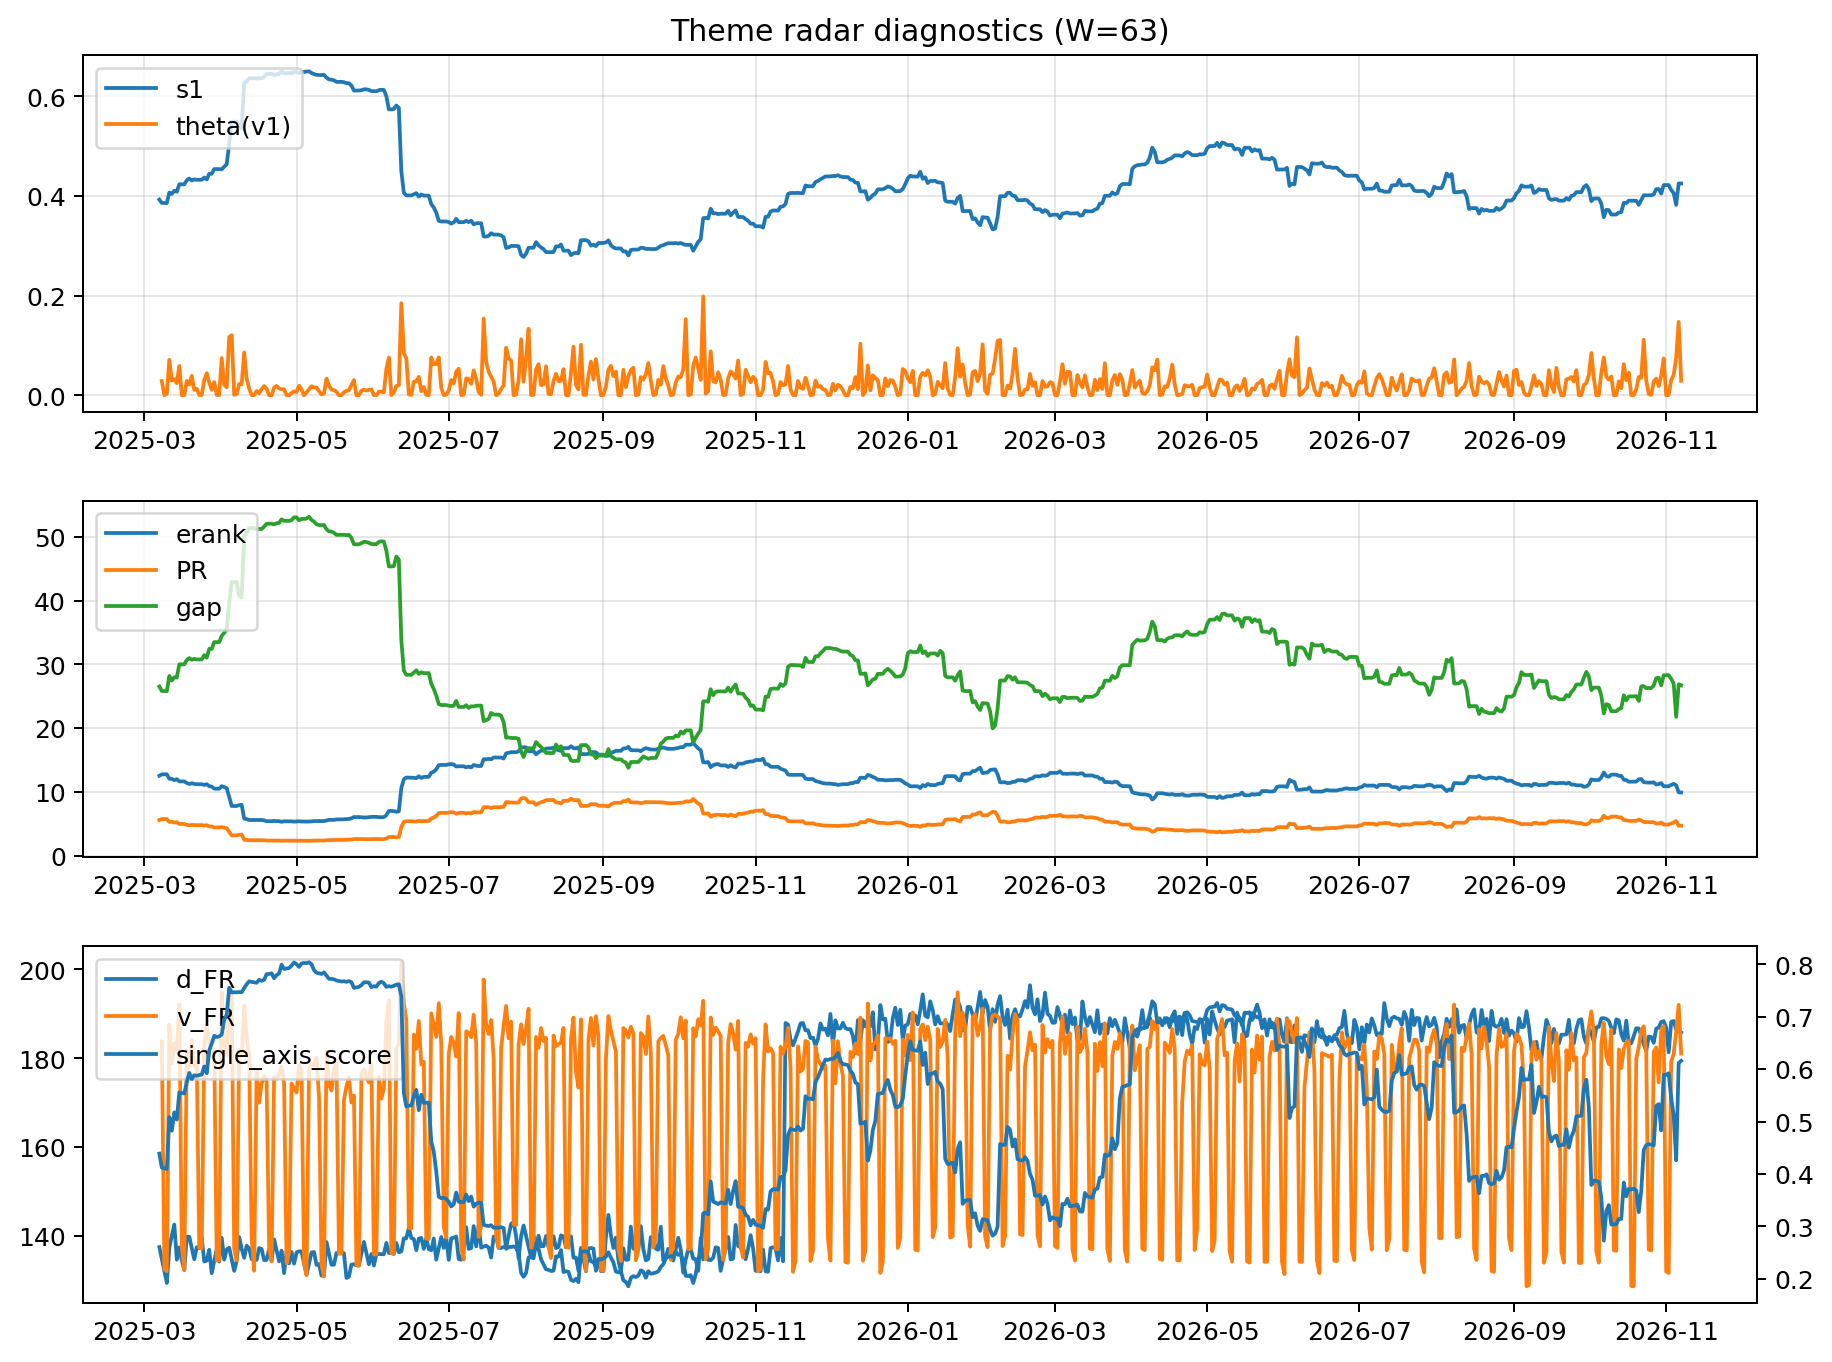
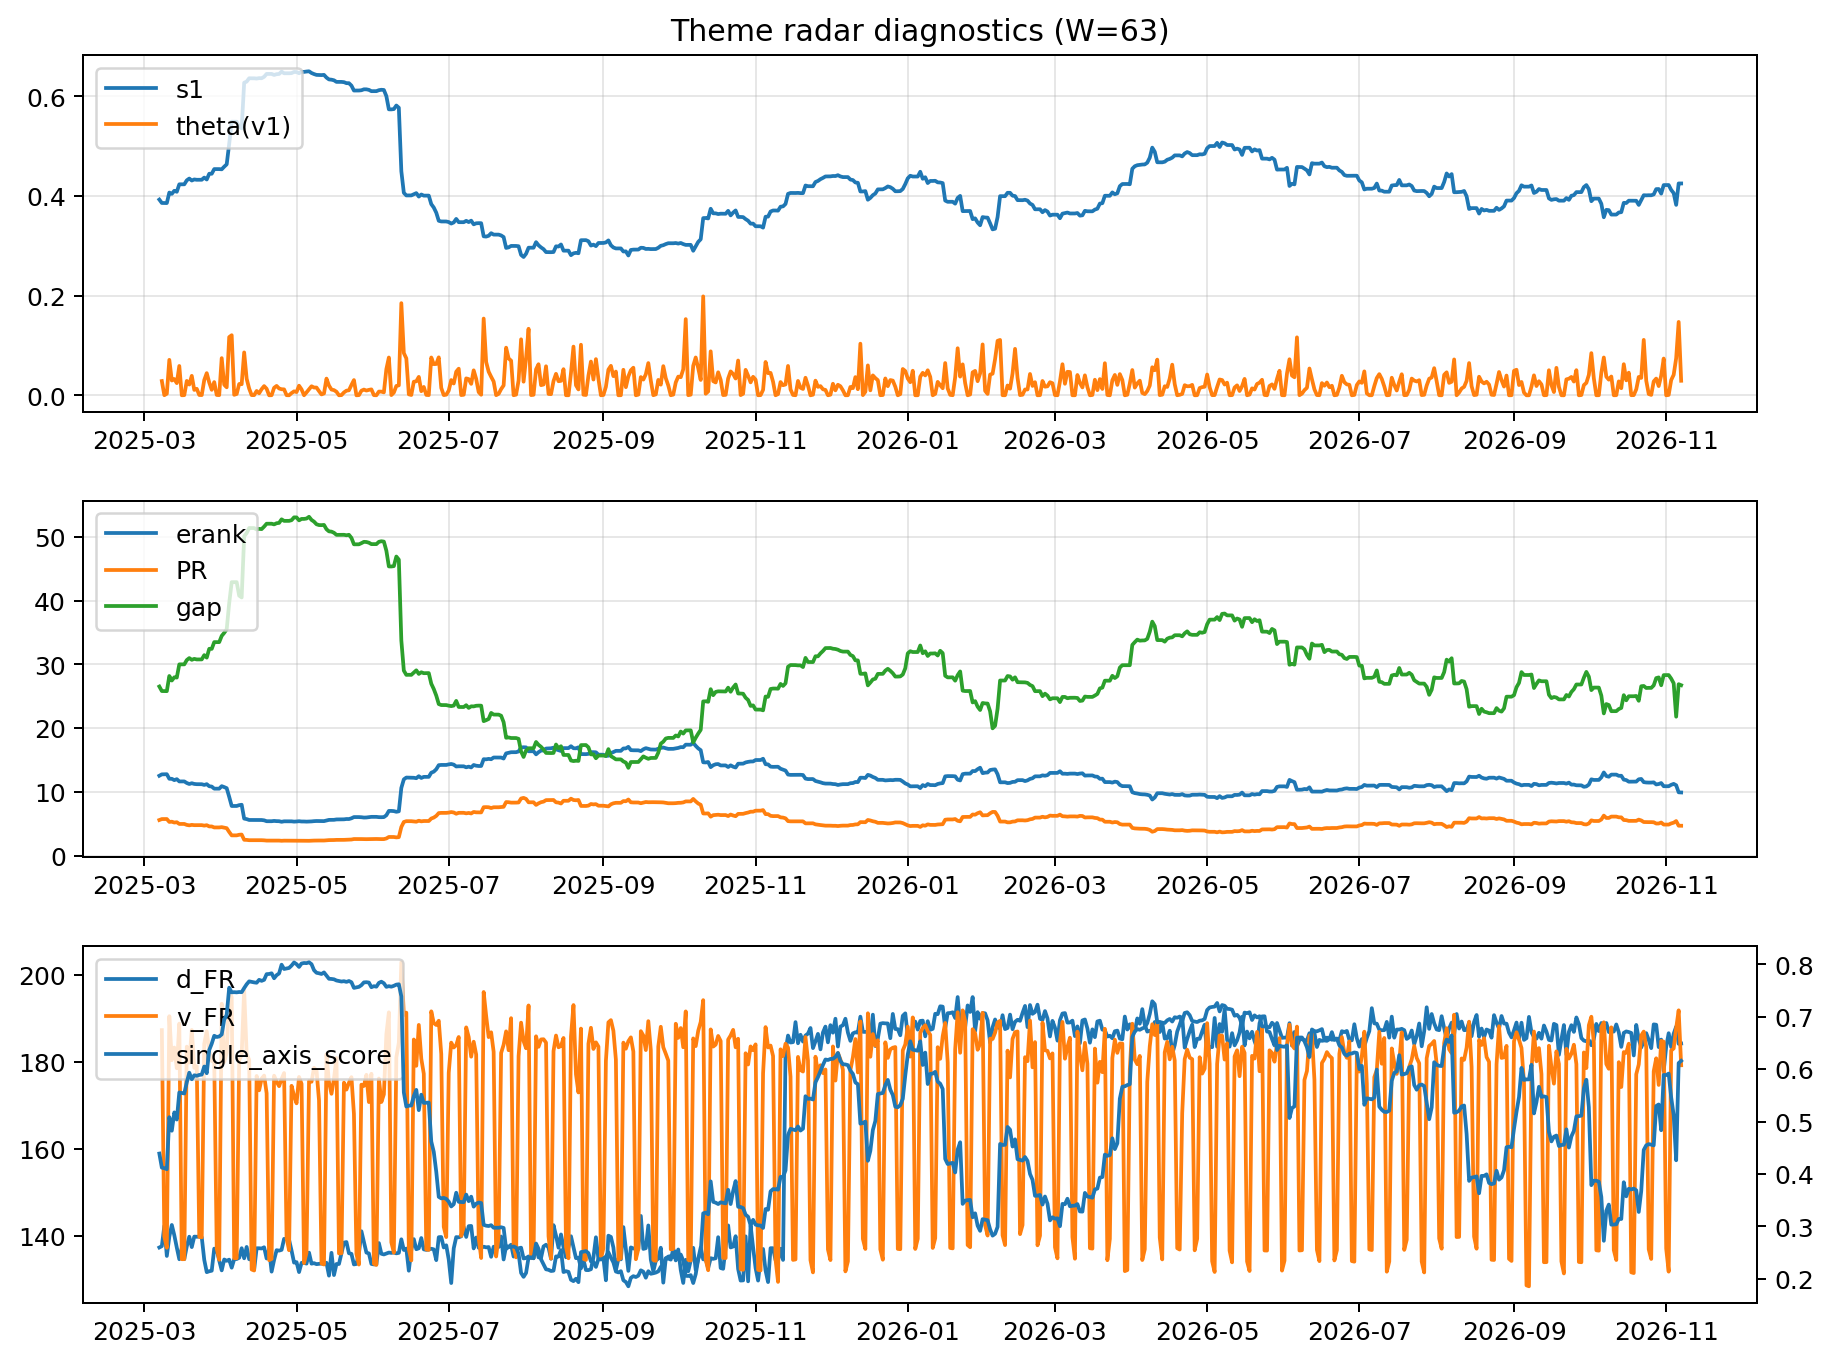
log: 2026-11-07 | sha256:04d435f51684cef080b8a446306857e31765f875eb99569a89519b077b0a6a6f

diff --git a/logs/2026-11-07.md b/logs/2026-11-07.md
@@ -3,43 +3,43 @@
 ![diagnostic W63](../assets/diagnostic/2026-11-07_W63.png)
 
 ## Leaders (v1) — W=63
-- **Nuclear_Uranium** (0.0804837827853006)
-- Semis (0.0781782614275114)
-- Genomics_Bio (0.0602821769241579)
+- **Nuclear_Uranium** (0.0804897110687736)
+- Semis (0.0781787931654107)
+- Genomics_Bio (0.0602873158768153)
 
 ## Challengers — W=63
-**v2:** Rates (0.0824233213517477), Metals (0.0750060332604043), Semis (0.0580552026621323)
-**v3:** Rates (0.081844792362851), MegaCap_AI (0.0774359554508987), Crypto (0.0770709887578667)
+**v2:** Rates (0.0819255506667261), Metals (0.0751550953329903), Semis (0.0581112963235019)
+**v3:** Rates (0.082493419232002), MegaCap_AI (0.0774869046521548), Crypto (0.0767876360787917)
 
 ## Migration (20D slope) — W=63
 **Top risers:**
-- axis_Semis: 0.0007828126306595
-- axis_Genomics_Bio: 0.0004636515420705
-- axis_MegaCap_AI: 0.0003241118712221
-- axis_Crypto: 0.0003145763524203
-- axis_Space: 0.0002349980166982
-- axis_Nuclear_Uranium: 0.0002193665850796
-- axis_Software_Cloud: 0.000190161594142
-- axis_Quantum: 0.0001729588623101
-- axis_Grid_Power: 0.0001685841696045
-- axis_Cyber: 0.0001575840217497
+- axis_Semis: 0.0007818752190151
+- axis_Genomics_Bio: 0.0004644861371284
+- axis_MegaCap_AI: 0.0003241398114878
+- axis_Crypto: 0.0003140696690415
+- axis_Space: 0.0002344580964001
+- axis_Nuclear_Uranium: 0.0002199334288623
+- axis_Software_Cloud: 0.0001892579668058
+- axis_Quantum: 0.0001724635855421
+- axis_Grid_Power: 0.0001668702611528
+- axis_Cyber: 0.0001572786497292
 
 **Top fallers:**
-- axis_Clean_Solar: -0.0001352547477661
-- axis_Sector_Materials: -0.0001380504383362
-- axis_Sector_Energy: -0.0001436320515402
-- axis_Commodities: -0.0001655837407919
-- axis_Clean_Broad: -0.0001707025454418
-- axis_Sector_RealEstate: -0.0002238181762732
-- axis_Metals: -0.0003143479009821
-- axis_USD: -0.0003719929723655
-- axis_Credit: -0.0004094118505349
-- axis_Rates: -0.0015178708430108
+- axis_Clean_Solar: -0.000134878861555
+- axis_Sector_Materials: -0.0001377608143622
+- axis_Sector_Energy: -0.0001431499933056
+- axis_Commodities: -0.0001646990718093
+- axis_Clean_Broad: -0.0001706608731923
+- axis_Sector_RealEstate: -0.0002234263023447
+- axis_Metals: -0.0003142641483498
+- axis_USD: -0.0003712498689206
+- axis_Credit: -0.0004092302077081
+- axis_Rates: -0.0015171368498257
 
 ## Risk line (W=63)
-- s1: 0.4249434251034019
-- theta_v1: 0.0291741995994553
-- v_FR: 181.0146507944312
+- s1: 0.4249386253785278
+- theta_v1: 0.0291770277559513
+- v_FR: 179.21259086136132
 - single_axis_score: 0.6157119476268413
 
 ## Interpretation
@@ -48,7 +48,7 @@
 - Action: Tomorrow watchlist: Semis, Genomics_Bio, MegaCap_AI, Crypto, Space + v2_top1=Rates
 - Action: Hedge note: normal correlation stability.
 
-- Percentiles (W=63 history): vfr_pct=0.50, theta_pct=0.64, s1_pct=0.65, score_pct=0.70.
+- Percentiles (W=63 history): vfr_pct=0.43, theta_pct=0.64, s1_pct=0.65, score_pct=0.70.
 
 ---
[2 lines of base64/hex data omitted]
